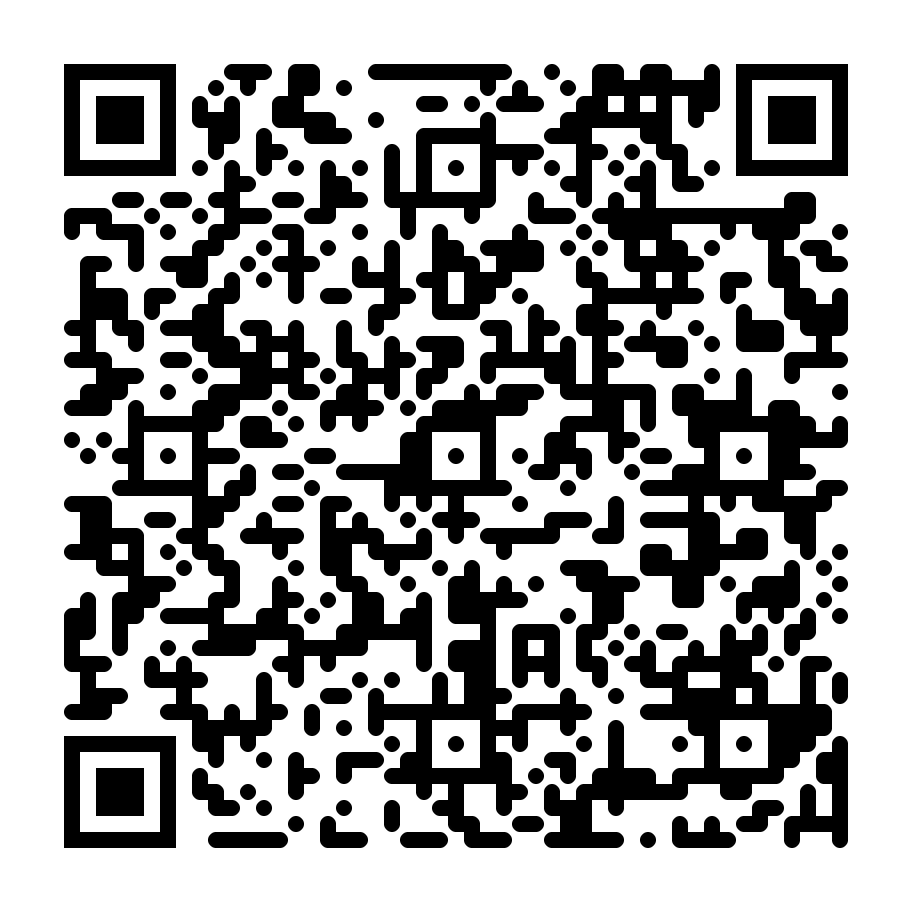
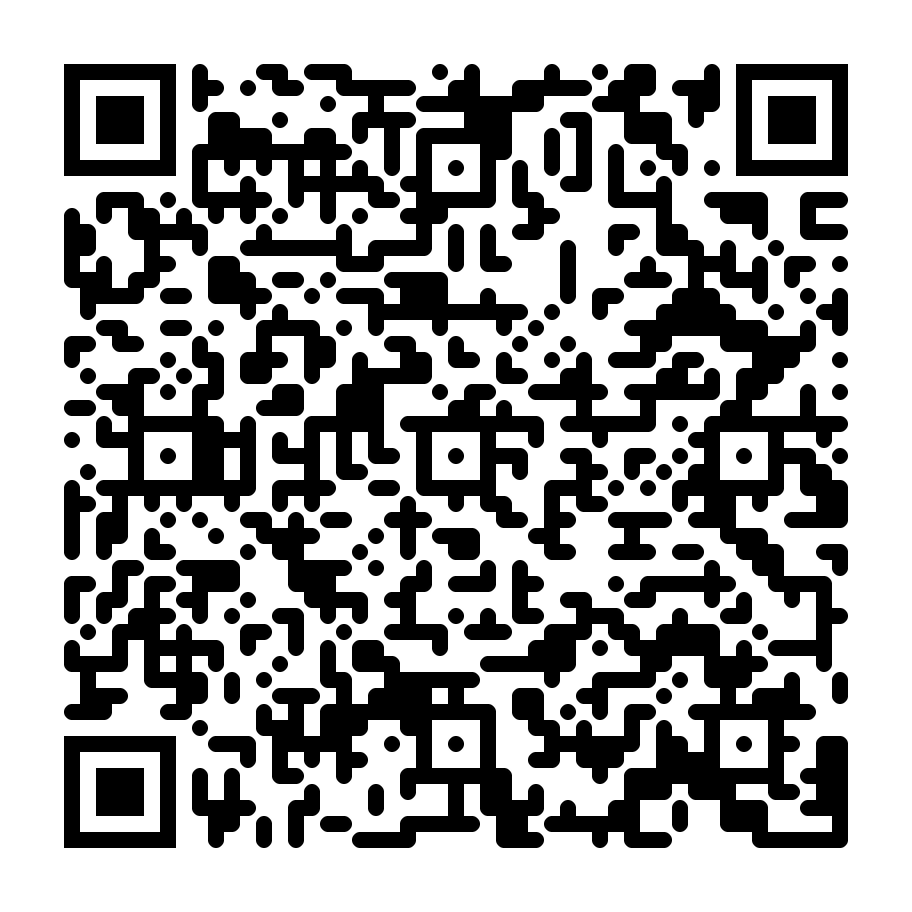
Fix broken download links/QRs: pin to permanent melody-latest release (web /releases/latest was cached to prerelease)

diff --git a/index.html b/index.html
@@ -39,10 +39,10 @@
   <div class="tag">Premium arayüz · Açık kaynak müzik player · Spotify tarzı · Türkçe</div>
 
   <div class="btns">
-    <a class="btn btn-green" href="https://github.com/Arise1881/melody-dist/releases/latest/download/Melody.apk">⬇ &nbsp;Android için İndir (.apk)</a>
-    <a class="btn btn-green" href="https://github.com/Arise1881/melody-dist/releases/latest/download/Melody.ipa">⬇ &nbsp;iPhone için İndir (.ipa)</a>
-    <a class="btn btn-dark" href="https://github.com/Arise1881/melody-dist/releases/latest/download/melody_1.0.3_amd64.deb">⬇ &nbsp;Linux için İndir (.deb)</a>
-    <a class="btn btn-dark" href="https://github.com/Arise1881/melody-dist/releases/latest/download/Melody-linux.tar.gz">🐧 &nbsp;Linux taşınabilir (.tar.gz)</a>
+    <a class="btn btn-green" href="https://github.com/Arise1881/melody-dist/releases/download/melody-latest/Melody.apk">⬇ &nbsp;Android için İndir (.apk)</a>
+    <a class="btn btn-green" href="https://github.com/Arise1881/melody-dist/releases/download/melody-latest/Melody.ipa">⬇ &nbsp;iPhone için İndir (.ipa)</a>
+    <a class="btn btn-dark" href="https://github.com/Arise1881/melody-dist/releases/download/melody-latest/melody_1.0.3_amd64.deb">⬇ &nbsp;Linux için İndir (.deb)</a>
+    <a class="btn btn-dark" href="https://github.com/Arise1881/melody-dist/releases/download/melody-latest/Melody-linux.tar.gz">🐧 &nbsp;Linux taşınabilir (.tar.gz)</a>
     <a class="btn btn-dark" href="altstore://source?url=https://raw.githubusercontent.com/Arise1881/melody-dist/main/apps.json">📲 AltStore'a Ekle</a>
     <a class="btn btn-dark" href="https://github.com/Arise1881/melody-dist#readme">📖 Kurulum Rehberi</a>
   </div>

diff --git a/README.md b/README.md
@@ -23,10 +23,10 @@ Spotify tarzı, açık kaynak (GPL-3.0) müzik uygulaması.
 
 | Dosya | Link |
 |-------|------|
-| 🤖 APK (Android) | [Melody.apk indir](../../releases/latest/download/Melody.apk) |
-| 📦 IPA (iOS) | [Melody.ipa indir](../../releases/latest/download/Melody.ipa) |
-| 🐧 DEB (Linux Mint/Ubuntu) | [melody_1.0.3_amd64.deb indir](../../releases/latest/download/melody_1.0.3_amd64.deb) |
-| 🐧 Tar.gz (taşınabilir) | [Melody-linux.tar.gz indir](../../releases/latest/download/Melody-linux.tar.gz) |
+| 🤖 APK (Android) | [Melody.apk indir](../../releases/download/melody-latest/Melody.apk) |
+| 📦 IPA (iOS) | [Melody.ipa indir](../../releases/download/melody-latest/Melody.ipa) |
+| 🐧 DEB (Linux Mint/Ubuntu) | [melody_1.0.3_amd64.deb indir](../../releases/download/melody-latest/melody_1.0.3_amd64.deb) |
+| 🐧 Tar.gz (taşınabilir) | [Melody-linux.tar.gz indir](../../releases/download/melody-latest/Melody-linux.tar.gz) |
 | 🌐 Tanıtım sayfası | [arise1881.github.io/melody-dist](https://arise1881.github.io/melody-dist/) |
 
 ## 📲 iPhone'a Kurulum — 4 Yol
